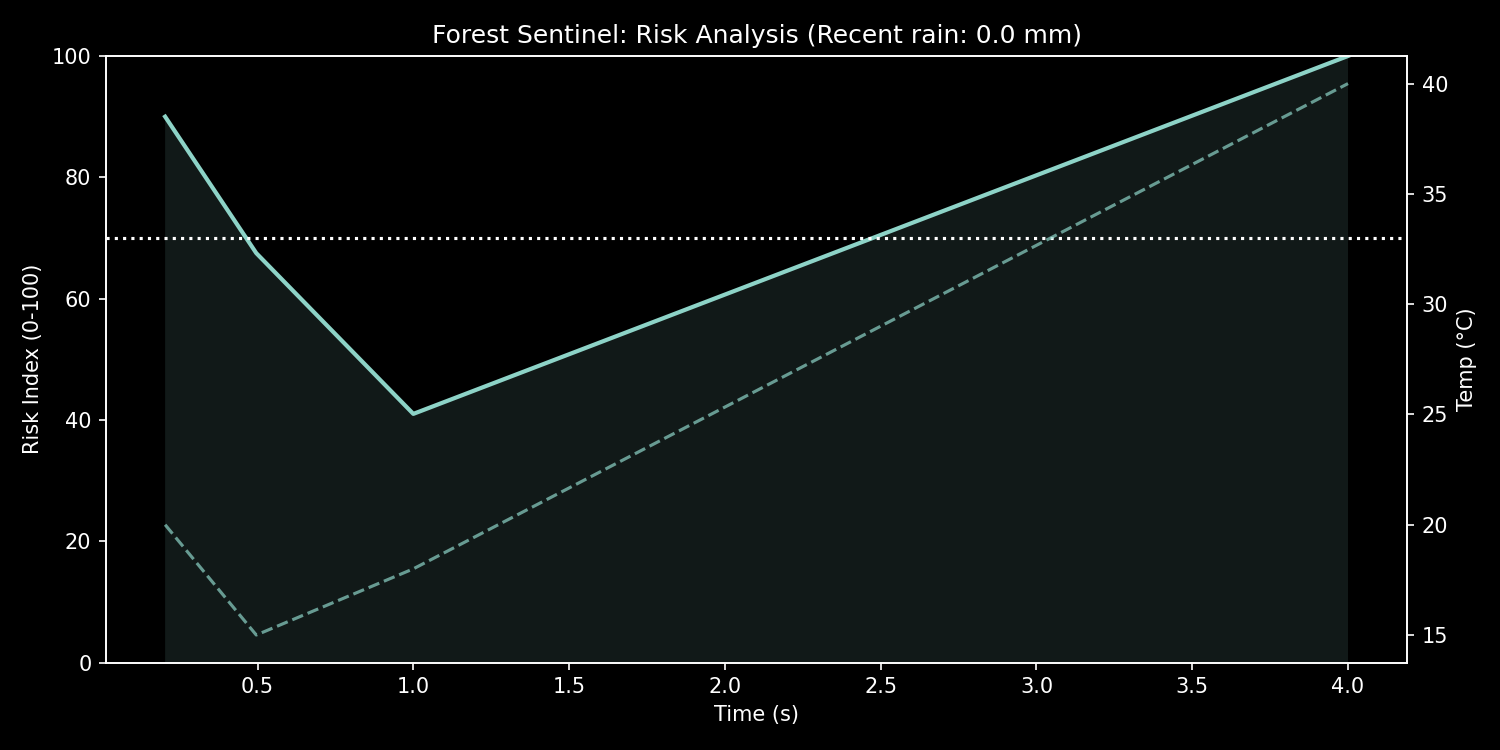
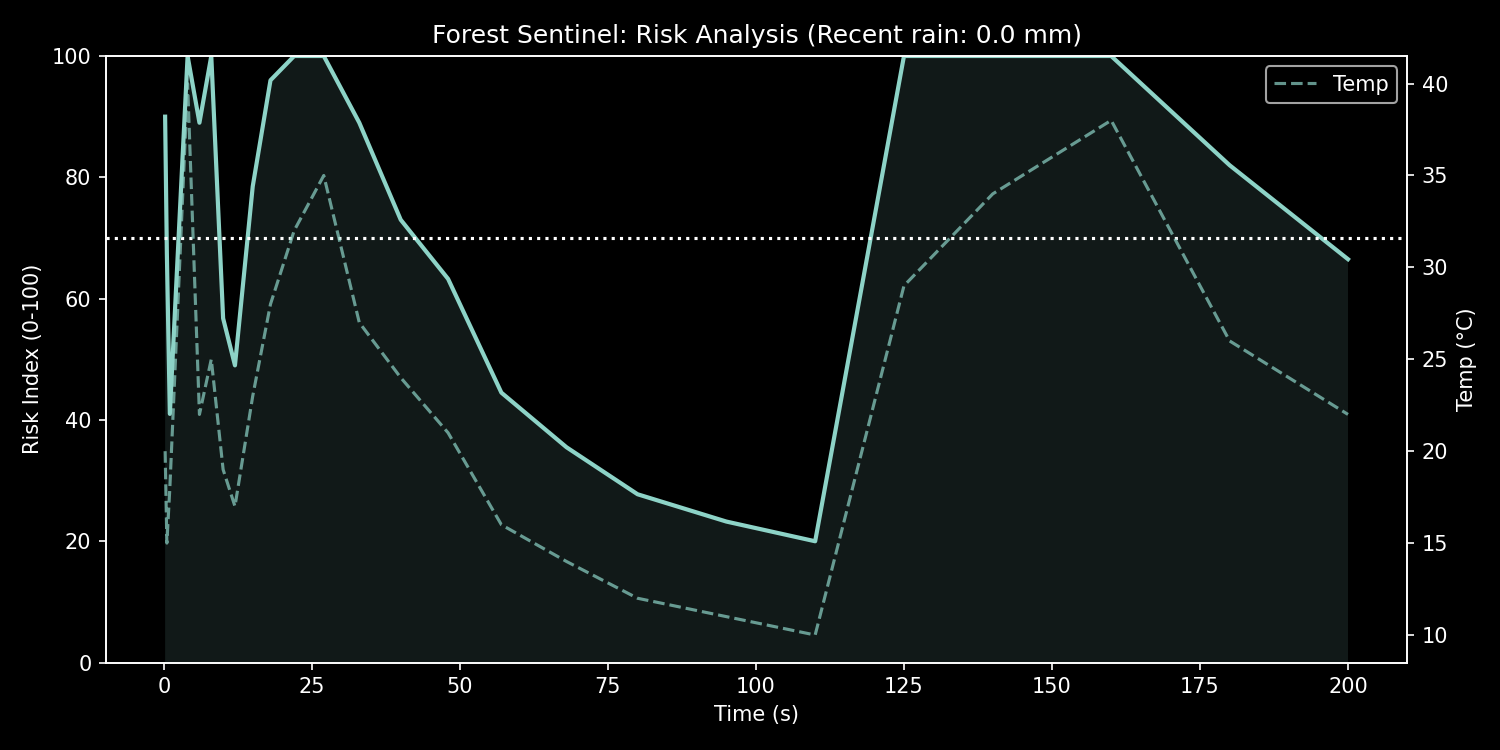
class 12-2-25

diff --git a/simulation.py b/simulation.py
@@ -36,6 +36,7 @@ def analyse_risk(micro_df: pd.DataFrame, weather_df: pd.DataFrame):
     return micro, recent_rain
 
 def plot_analysis(df: pd.DataFrame, rain_amount: float):
+    
     plt.style.use('dark_background')
     fig, ax1 = plt.subplots(figsize=(10,5))
     ax1.plot(df['Time'], df['Risk_Score'], linewidth=2, label='Risk Score')
@@ -51,10 +52,14 @@ def plot_analysis(df: pd.DataFrame, rain_amount: float):
     ax1.axhline(70, linestyle=':', label='Critical Threshold')
     plt.title(f"Forest Sentinel: Risk Analysis (Recent rain: {rain_amount} mm)")
     fig.tight_layout()
-    
-    print("Display not supported – saving graph as image instead.")
-    plt.savefig("risk_analysis.png", dpi=150)
-    print("Saved as risk_analysis.png")
+    plt.legend()
+
+    try:
+        plt.show()
+    finally:
+        print("Display not supported – saving graph as image instead.")
+        plt.savefig("risk_analysis.png", dpi=150)
+        print("Saved as risk_analysis.png")
 
 
 def run_what_if(micro_df: pd.DataFrame, weather_df: pd.DataFrame):
@@ -68,9 +73,13 @@ def run_what_if(micro_df: pd.DataFrame, weather_df: pd.DataFrame):
     plt.xlabel('Time (s)')
     plt.ylabel('Risk')
     plt.legend()
-    print("Display not supported – saving graph as image instead.")
-    plt.savefig("risk_whatif.png", dpi=150)
-    print("Saved as risk_analysis.png")
+
+    try:
+        plt.show()
+    finally:
+        print("Display not supported – saving graph as image instead.")
+        plt.savefig("risk_whatif.png", dpi=150)
+        print("Saved as risk_analysis.png")
 
 # Minimal placeholders for the reporting path used by main.py
 def calculate_fire_risk_weather(weather_df: pd.DataFrame):

diff --git a/main.py b/main.py
@@ -57,7 +57,7 @@ def main_menu():
         if choice == '1':
             df = data_manager.get_microbit_data()
             if not df.empty:
-                print(df.head())
+                print(df)
             input("\nPress Enter to return to menu...")
 
         elif choice == '2':
